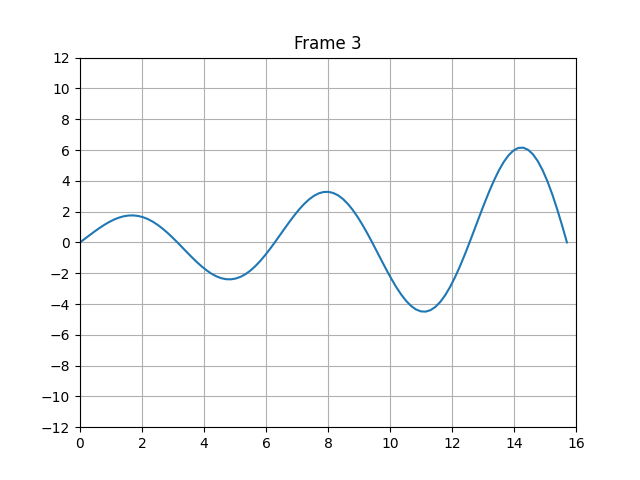
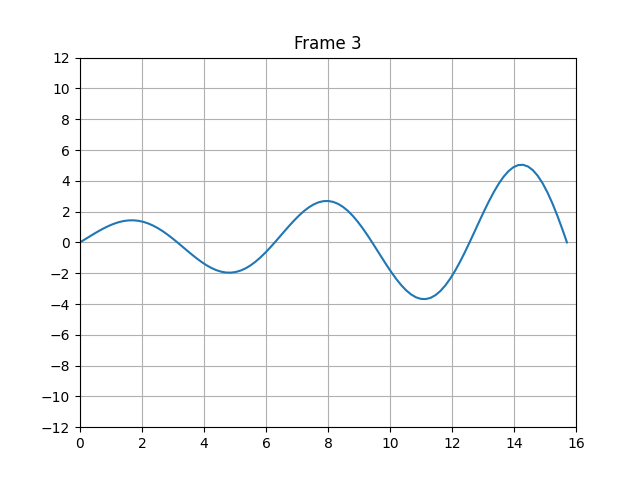
Issues 3 completed

diff --git a/Lab_MPL/Episode 2/main.py b/Lab_MPL/Episode 2/main.py
@@ -5,6 +5,7 @@ from PIL import Image
 n = 0
 m = 0
 fig, axs = plt.subplots(3, 2, figsize=[12, 12])
+fig1, axs1 = plt.subplots()
 
 with open("01.dat") as file:
     while True:
@@ -25,33 +26,23 @@ with open("01.dat") as file:
             m += 1
         else:
             n += 1
-plt.subplots_adjust(wspace=0.3, hspace=0.4)
-plt.savefig("res.png")
+
+        axs1.plot(x, y)
+        axs1.set_title('Frame %d' % (1 + n + 3 * m))
+        axs1.set_xlim([0, 16])
+        axs1.set_ylim([-12, 12])
+        axs1.grid()
+        axs1.yaxis.set_major_locator(ticker.MultipleLocator(2))
+
+        fig1.savefig(f'GIF/res{(1 + n + 3 * m)}.png')
+        axs1.clear()
+
+fig.subplots_adjust(wspace=0.3, hspace=0.4)
+fig.savefig("res.png")
 plt.close(fig)
 # plt.show()
 # ------------------------------------------------------ #
 
-
-num = 0
-with open("01.dat") as file:
-    while True:
-        fig, axs = plt.subplots()
-        num += 1
-        line1 = file.readline()
-        line2 = file.readline()
-        if not line2:
-            break
-        x = [float(i) for i in line1.split()]
-        y = [float(i) for i in line2.split()]
-        axs.plot(x, y)
-        axs.set_title('Frame %d' % num)
-        axs.set_xlim([0, 16])
-        axs.set_ylim([-12, 12])
-        axs.grid()
-        axs.yaxis.set_major_locator(ticker.MultipleLocator(2))
-
-        plt.savefig(f'GIF/res{num}.png')
-        plt.close(fig)
 
 frames = []
 
